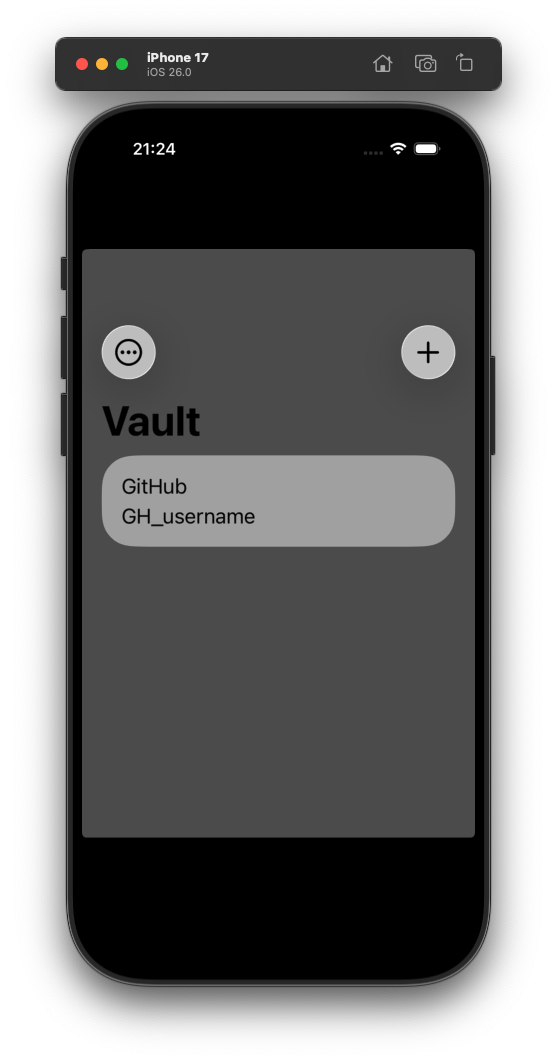
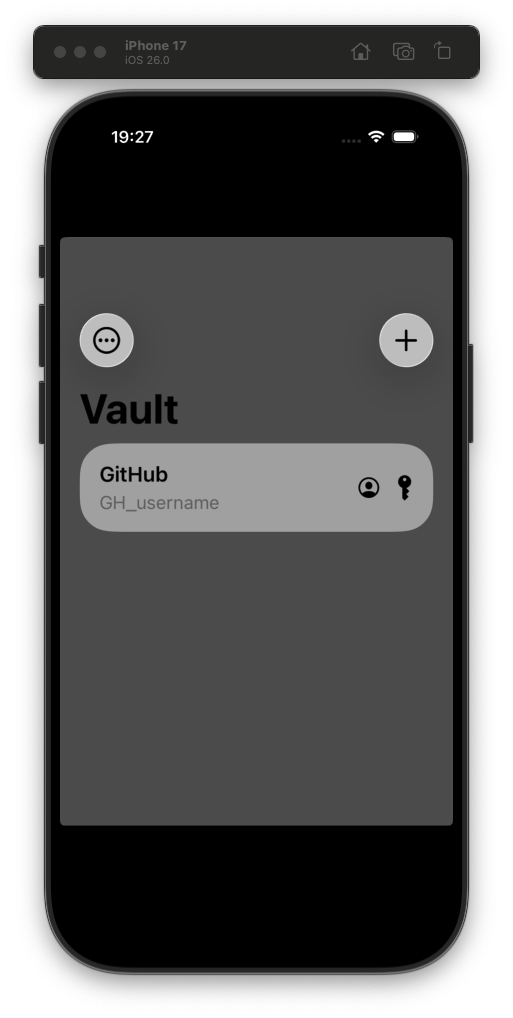
feat: implement copy username/pw feature

Changed region(s): [[0.0312, 0.0, 0.9669, 0.9745]]

diff --git a/password-vault/ContentView.swift b/password-vault/ContentView.swift
@@ -222,11 +222,66 @@ struct ContentView: View {
 
 struct PasswordRowView: View {
     let entry: PasswordEntryWrapper
+    @State private var showCopiedFeedback = false
+    @State private var copiedType: String = ""
 
     var body: some View {
-        VStack(alignment: .leading, spacing: 4) {
-            Text(entry.title)
-            Text(entry.username)
+        HStack {
+            VStack(alignment: .leading, spacing: 4) {
+                Text(entry.title)
+                    .font(.headline)
+                Text(entry.username)
+                    .font(.subheadline)
+                    .foregroundColor(.secondary)
+            }
+
+            Spacer()
+
+            HStack(spacing: 12) {
+                Button {
+                    copyToClipboard(entry.username, type: "Username")
+                } label: {
+                    Image(systemName: "person.crop.circle")
+                        .foregroundColor(.black)
+                }
+                .buttonStyle(.borderless)
+
+                Button {
+                    copyToClipboard(entry.password, type: "Password")
+                } label: {
+                    Image(systemName: "key.fill")
+                        .foregroundColor(.black)
+                }
+                .buttonStyle(.borderless)
+            }
+        }
+        .overlay(
+            Group {
+                if showCopiedFeedback {
+                    Text("\(copiedType) copied!")
+                        .font(.caption)
+                        .padding(8)
+                        .background(Color.black.opacity(0.7))
+                        .foregroundColor(.white)
+                        .cornerRadius(8)
+                        .transition(.opacity)
+                }
+            }
+        )
+    }
+
+    private func copyToClipboard(_ text: String, type: String) {
+        UIPasteboard.general.string = text
+        copiedType = type
+
+        withAnimation {
+            showCopiedFeedback = true
+        }
+
+        DispatchQueue.main.asyncAfter(deadline: .now() + 1.5) {
+            withAnimation {
+                showCopiedFeedback = false
+            }
         }
     }
 }
